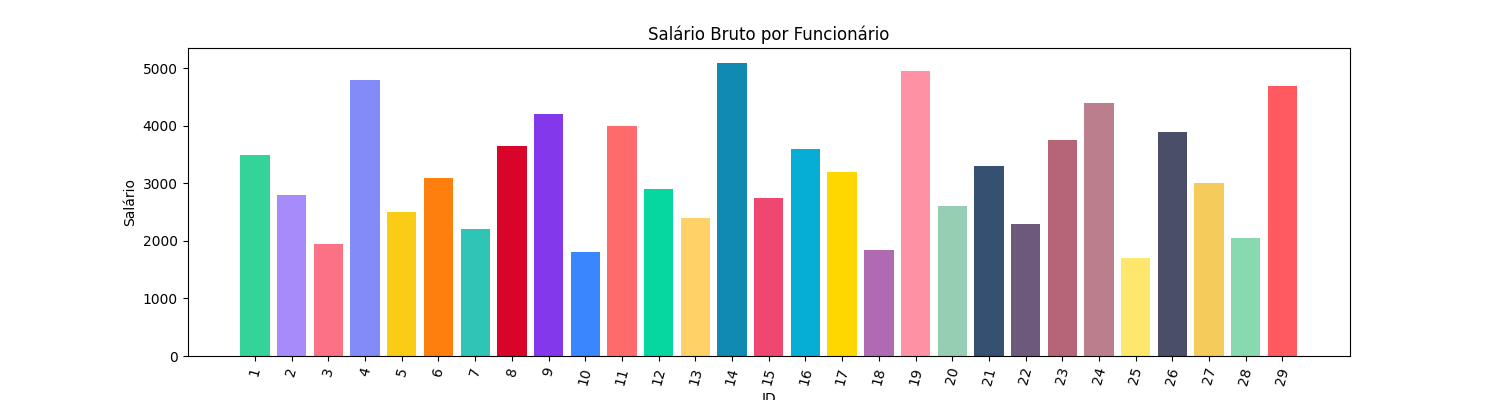
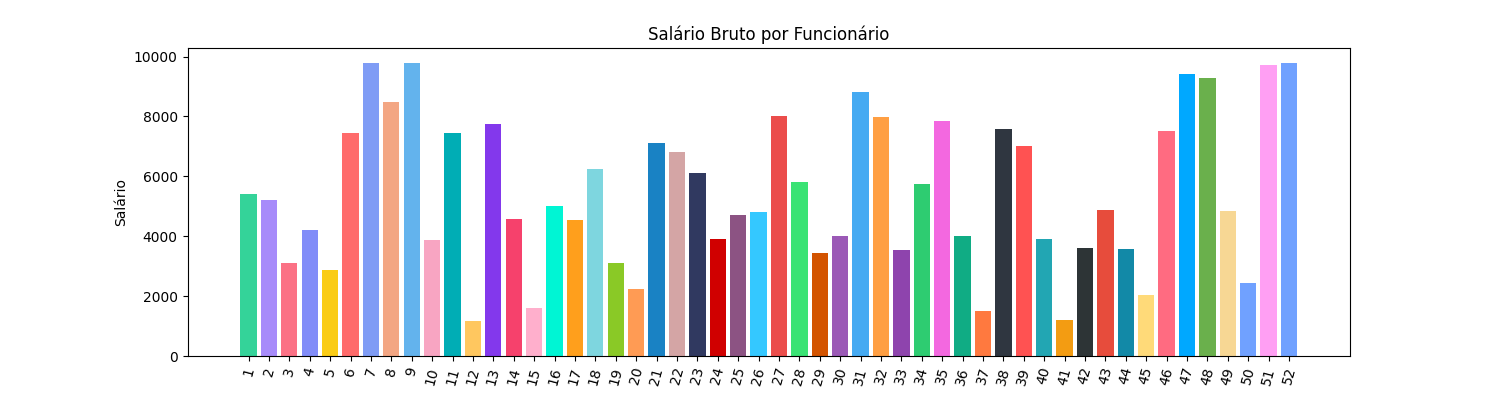
Functions update

diff --git a/functions.py b/functions.py
@@ -372,3 +372,56 @@ def plotnsave_overtime():
     ax.bar(areas, horas, label=bar_labels, color=bar_colors)
     ax.set_ylabel("Quantidade")
     plt.savefig(r"Charts\overtime_chart")
+
+# Cria e salva o gráfico de salários por área
+def plotnsave_salaries():
+    areas, salaries = config.get_area_salaries()
+    colors = ["#34d399", "#a78bfa", "#fb7185", "#818cf8", "#facc15", "#fb923c", "#22d3ee", "#a3e635", "#63B3ED", "#f8a5c2"]
+    bar_labels = colors[:len(areas)]
+    bar_colors = colors[:len(areas)]
+
+    fig, ax = plt.subplots(figsize=(6, 3))
+    ax.bar(areas, salaries, label=bar_labels, color=bar_colors)
+    ax.set_ylabel("Quantidade")
+    ax.set_title('Total de Salários por Área')
+    plt.savefig(r"Charts\area_salary_chart")
+
+# Cria e salva o gráfico de salários por ID
+def plotnsave_salaries_id():
+
+    ids, salaries = config.get_salaries_id()
+    colors = [
+    "#34d399", "#a78bfa", "#fb7185", "#818cf8", "#facc15",
+    "#ff6b6b", "#7f9cf5", "#f3a683", "#63b3ed", "#f8a5c2",
+    "#00adb5", "#ffc75f", "#8338ec", "#f6416c", "#ffafcc",
+    "#00f5d4", "#ff9f1c", "#7ed6df", "#8ac926", "#ff9b54",
+    "#1982c4", "#d4a5a5", "#303960", "#d00000", "#8c5383",
+    "#34c8ff", "#eb4d4b", "#3ae374", "#d35400", "#9b59b6",
+    "#45aaf2", "#ff9f43", "#8e44ad", "#2ecc71", "#f368e0",
+    "#10ac84", "#ff793f", "#2f3640", "#ff5252", "#22a6b3",
+    "#f39c12", "#2d3436", "#e74c3c", "#1289a7", "#ffda79",
+    "#ff6b81", "#00a8ff", "#6ab04c", "#f7d794", "#70a1ff",
+    "#ff9ff3", "#70a1ff", "#70a1ff", "#2c2c54", "#f7f1e3",
+    "#58b19f", "#ffa502", "#ff7f50", "#7efff5", "#474787",
+    "#ced6e0", "#ffcccc", "#ff7979", "#badc58", "#f8a5c2",
+    "#f3a683", "#ff9ff3", "#7ed6df", "#b33771", "#6d214f",
+    "#8c7ae6", "#d63031", "#fbc531", "#4cd137", "#c56cf0",
+    "#54a0ff", "#00d8d6", "#ff3f34", "#ffcccc", "#9c88ff",
+    "#00cec9", "#fbc531", "#6ab04c", "#eb4d4b", "#ff3f34",
+    "#c8d6e5", "#44bd32", "#2d3436", "#a29bfe", "#ff3f34",
+    "#c8d6e5", "#6c5ce7", "#e15f41", "#34ace0", "#00a8ff",
+    "#ff3f34", "#34ace0", "#ff6b6b", "#22a6b3", "#1dd1a1",
+    "#54a0ff", "#6ab04c", "#ff5252", "#ff793f", "#f368e0",
+    "#00a8ff", "#f39c12", "#273c75", "#130f40", "#95afc0"
+]
+
+    bar_labels = colors[:len(ids)]
+    bar_colors = colors[:len(ids)]
+
+    fig, ax = plt.subplots(figsize=(15, 4))
+    ax.bar(ids, salaries, label=bar_labels, color=bar_colors)
+    ax.set_ylabel("Salário")
+    plt.xticks(rotation=75)
+    ax.set_xticks(ids)
+    ax.set_title('Salário Bruto por Funcionário')
+    plt.savefig(r"Charts\salary_chart")
